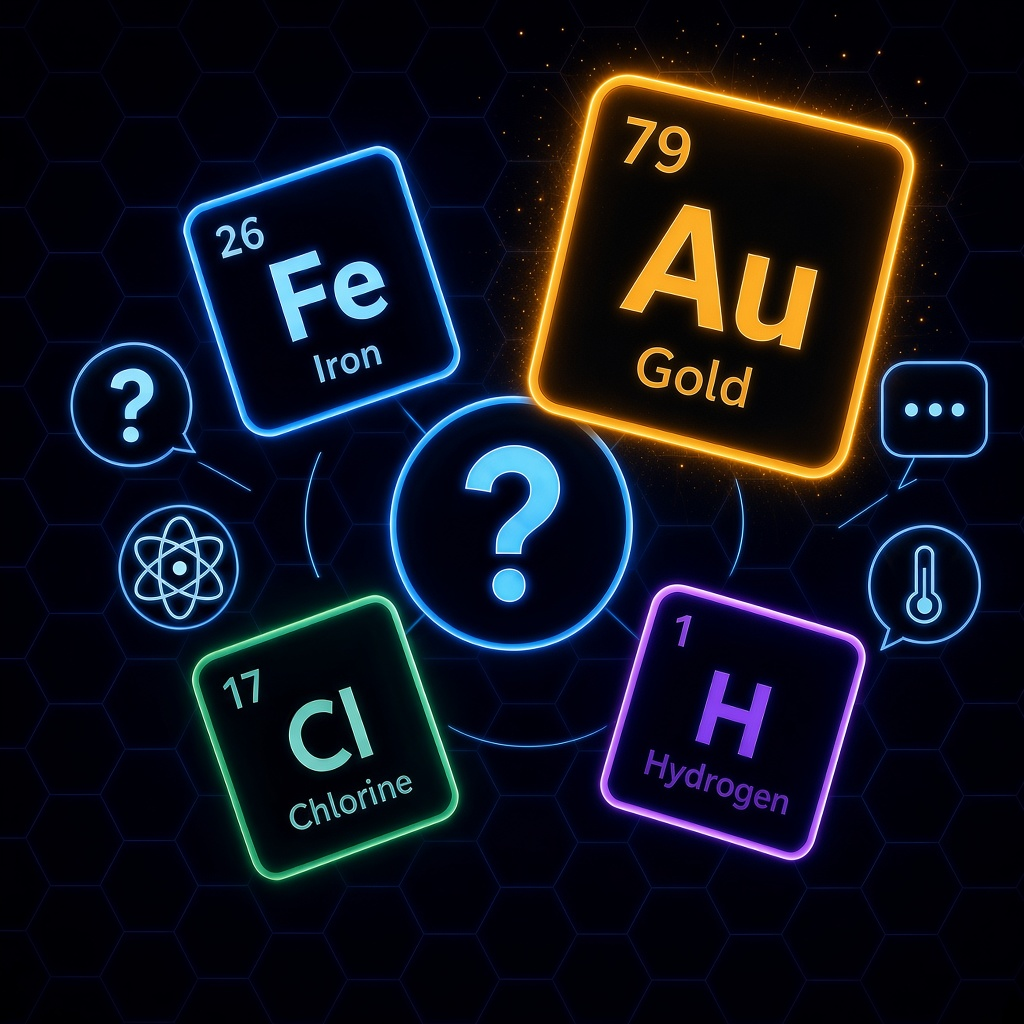
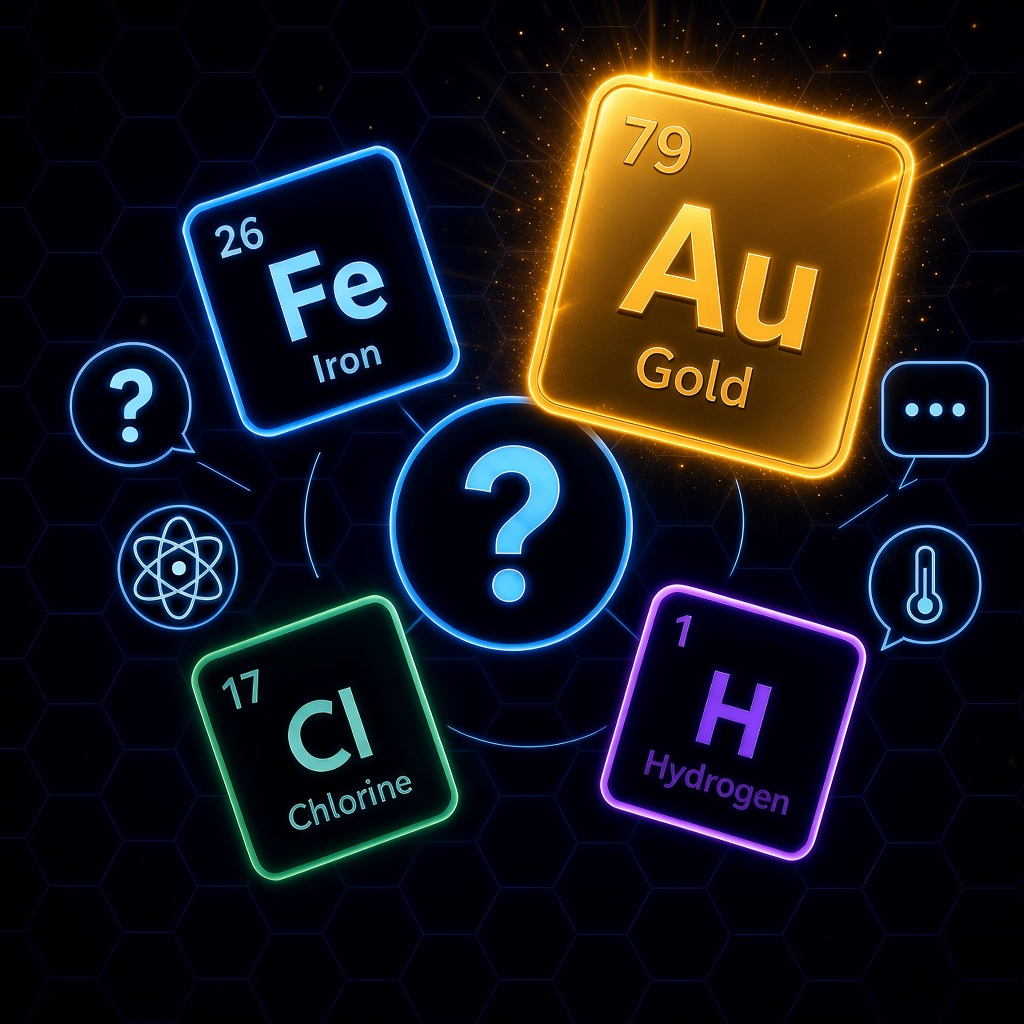
Restore the shiny gold glow on the Mixed Au tile.

diff --git a/CHANGELOG.md b/CHANGELOG.md
@@ -7,6 +7,12 @@ and this project adheres to [Semantic Versioning](https://semver.org/spec/v2.0.0
 
 ## [Unreleased]
 
+## [0.23.20] - 2026-09-16
+
+### Changed
+
+- Mixed icon’s gold Au tile is shiny again.
+
 ## [0.23.19] - 2026-09-16
 
 ### Changed
